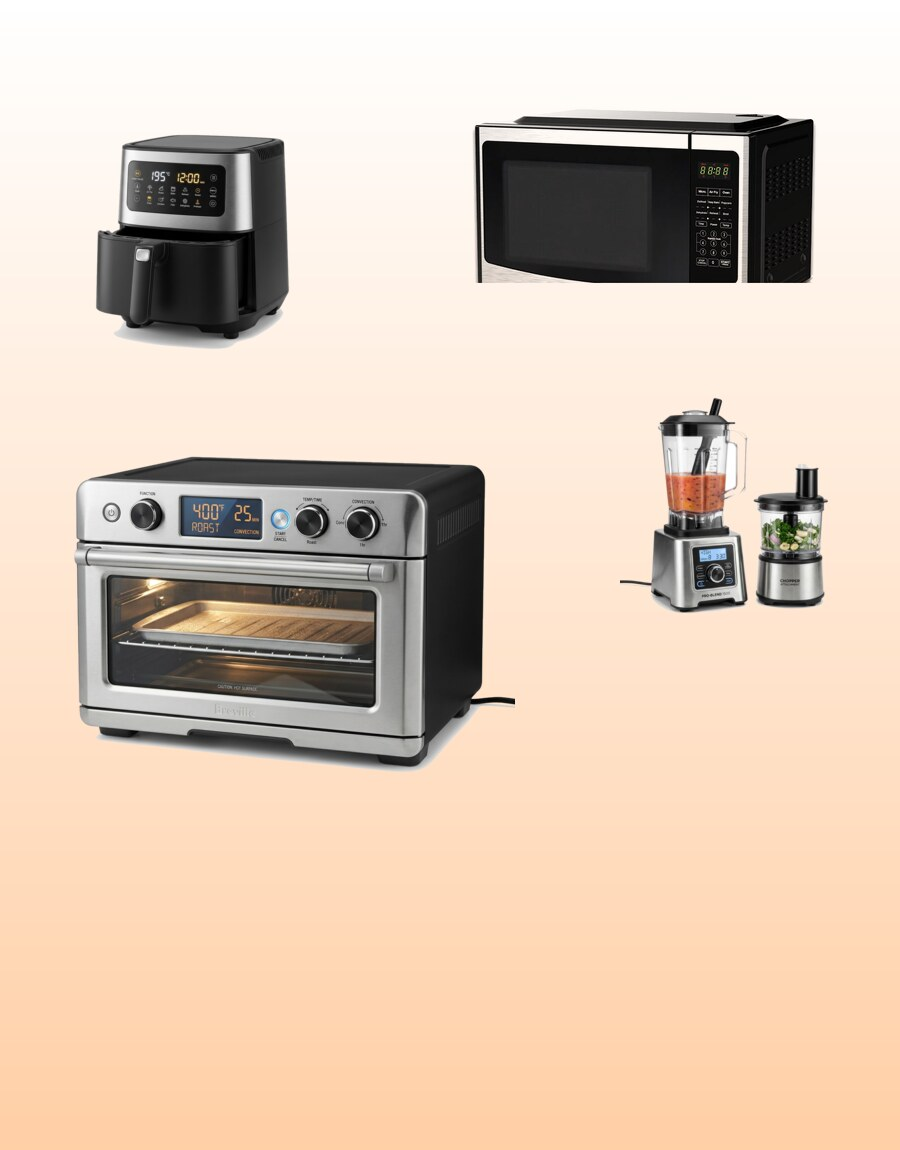
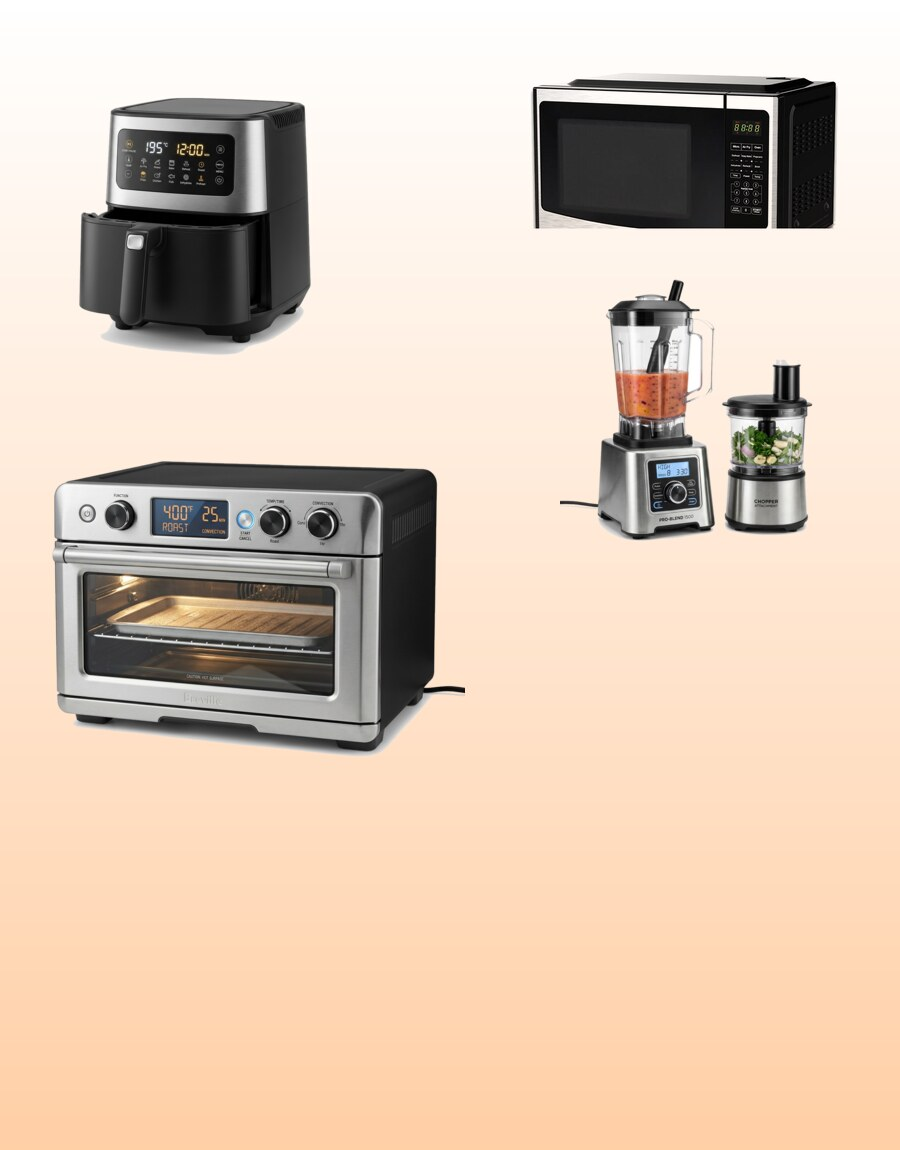
Kitchen card: enlarge air fryer and blender for clarity

Changed region(s): [[0.5289, 0.0609, 0.9333, 0.5478], [0.0622, 0.3957, 0.56, 0.6696], [0.0622, 0.0609, 0.3422, 0.3348]]

diff --git a/index.html b/index.html
@@ -290,7 +290,7 @@
     <div class="container">
       <div class="triptych-grid">
         <a class="trip-card" href="category.html?cat=kitchen" aria-label="تصفح أجهزة المطبخ">
-          <img class="trip-img" src="assets/products/hero-cat-kitchen.jpg?v=5" alt="أجهزة المطبخ: أفران وقلايات هوائية وخلاطات وميكروويف" />
+          <img class="trip-img" src="assets/products/hero-cat-kitchen.jpg?v=6" alt="أجهزة المطبخ: أفران وقلايات هوائية وخلاطات وميكروويف" />
           <span class="trip-shade" aria-hidden="true"></span>
           <span class="trip-body">
             <span class="trip-eyebrow"><i class="fa-solid fa-kitchen-set"></i> أجهزة المطبخ</span>
